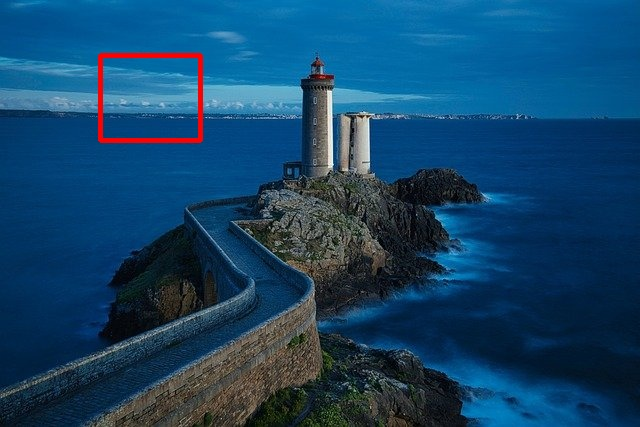
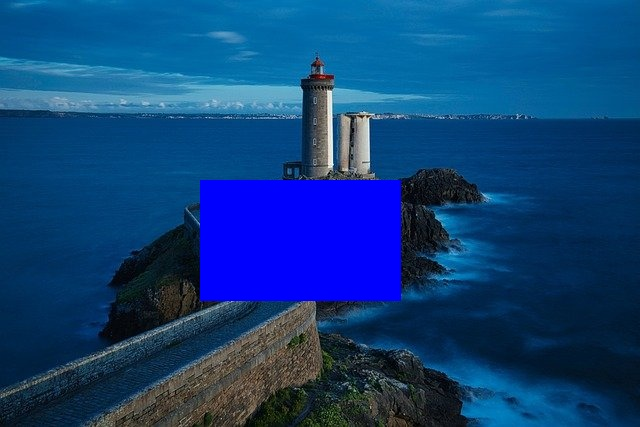
修正

Changed region(s): [[0.3125, 0.3958, 0.6562, 0.7307], [0.125, 0.1218, 0.3438, 0.3653]]

diff --git a/main.py b/main.py
@@ -5,7 +5,7 @@ import sys
 # imreadについて : https://kuroro.blog/python/wqh9VIEmRXS4ZAA7C4wd/
 # 第一引数 : 画像のファイルパス
 # 戻り値 : 行 x 列 x 色の三次元配列(numpy.ndarray)が返される。
-img = cv2.imread('./xxx.xxx')
+img = cv2.imread('./sample.jpg')
 
 # 画像ファイルが正常に読み込めなかった場合、プログラムを終了する。
 if img is None:
@@ -18,7 +18,7 @@ if img is None:
 # <第五引数以降(順不同、任意)>
 # thickness : 矩形の線の太さ(px)を指定する。int型。デフォルト(thicknessを指定しない場合)は1が設定される。
 # 負の整数(-1, -3など)を与えると、線で囲まれる矩形の、中の塗りつぶしを行います。
-cv2.rectangle(img, (200, 180), (10, 30), (255, 0, 0), thickness=-1)
+cv2.rectangle(img, (400, 300), (200, 180), (255, 0, 0), thickness=-1)
 
 # imwrite : 画像の保存を行う関数
 # 第一引数 : 保存先の画像ファイル名
